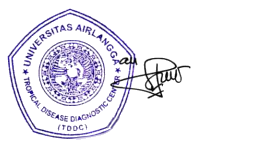
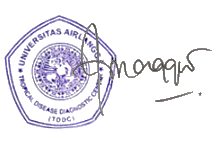
Update > TTD Manager

Changed region(s): [[0.0, 0.0552, 1.0, 0.9655], [0.7358, 0.6345, 0.9057, 0.7172], [0.934, 0.6345, 0.9623, 0.6621]]

diff --git a/app/Http/Controllers/Registration/RegistrationSampleController.php b/app/Http/Controllers/Registration/RegistrationSampleController.php
@@ -176,7 +176,7 @@
             $reg = Registration::find($reg_patien->registration_id);
             $reg_simlab = $this->getRegistrasiSimlab($reg_patien->simlab_reg_code);
             $reg_patiens_simlabs = $this->getPasienPemeriksaanSimlab($reg_patien->simlab_reg_code);
-            $user_pj = collect(DB::connection('mysql-simlab')->select("select * from pegawai where id_pegawai='55'"))->first();
+            $user_pj = collect(DB::connection('mysql-simlab')->select("select * from pegawai where id_pegawai='73'"))->first();
             $params = [
                 "reg" => $reg,
                 "reg_patient" => $reg_patien,
